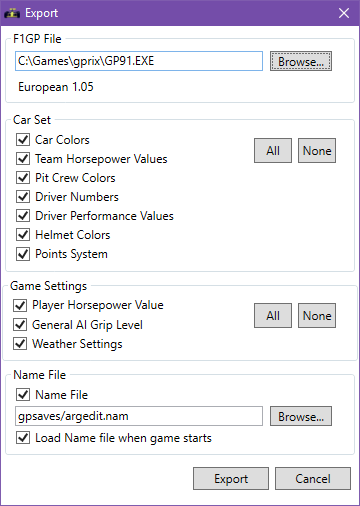
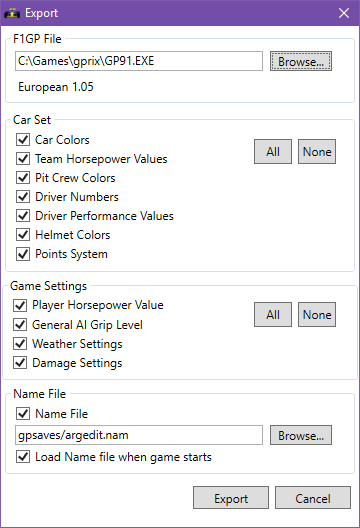
Documentation

Changed region(s): [[0.0, 0.0, 1.0, 0.9783], [0.7639, 0.8004, 0.9167, 0.8597], [0.9167, 0.0, 0.9778, 0.0593]]

diff --git a/Docs/docs/settings-screen.md b/Docs/docs/settings-screen.md
@@ -13,10 +13,17 @@ You can also adjust the general AI grip level. The default value is 1, but
 by increasing the value you can give yourself more of a challenge. The maximum
 value that can be set is 100.
 
-Finally, you can change the likelihood of a wet weather race occuring (the default
+Another thing yo edit is the likelihood of a wet weather race occuring (the default
 change is 6%) and whether there is a chance of rain at the first track (i.e. Phoenix).
 By default, wet weather races don't occur in Phoenix, because a 100% race almost
 always takes two hours anyway.
+
+The final items that can change or the accident damage settings. These determine
+how likely it is that your car retires or receives wing damage when colliding
+with walls or other cars. A lower value means that it is _more_ likely that damage occurs.
+
+You can also change the number of seconds before marshalls show yellow flags for
+stationary cars, and the number of seconds before retired cars are removed from the track.
 
 Note that game settings are _not_ saved in ArgEditor car set files,
 but they _are_ saved in F1Ed files.

diff --git a/Docs/docs/introduction.md b/Docs/docs/introduction.md
@@ -8,4 +8,5 @@ Click on the link in the table below for the screen you want to learn more about
 |--------------------------------------------------|-------------------------------------------------------------------------|
 | ![Car Set screen](img/tab-icon-carset.png)          |  [Car Set screen](carset-screen) for creating year-based car sets             |
 | ![Game Settings screen](img/tab-icon-settings.png)  |  [Game Settings screen](settings-screen) for changing various game settings   |
+| [Menus](menus.md)            | Describes the menus at the top of the application |
 

diff --git a/Docs/docs/download.md b/Docs/docs/download.md
@@ -18,6 +18,15 @@ be found here: https://www.microsoft.com/en-us/download/details.aspx?id=24872
 
 ## Release notes
 
+### 0.11 (2017-0?-??)
+
+* Can edit damage settings
+* Fix: Correctly show warning when painting a special case helmet
+* Fix: Update qualifying performance list when a driver's performance value changes
+* Fix: Don't add undo event if the same color was applied
+* Minor UI tweaks
+
+
 ### 0.10 (2017-04-19)
 
 * Can read and write F1Ed car sets
